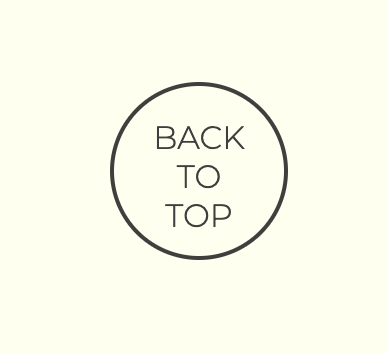
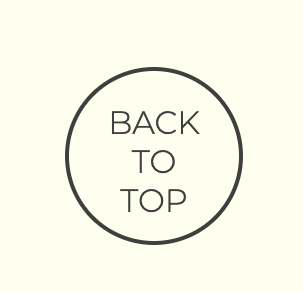
correct markdown for top button image and rescale

Changed region(s): [[0.2079, 0.2158, 0.802, 0.863], [0.6832, 0.7089, 0.7426, 0.7705]]

diff --git a/README.md b/README.md
@@ -93,8 +93,8 @@ A sign up form is at the bottom for users to input their name and email address 
 ### Back to top
 A responsive button that will bring the user back to the top of the site instead of them scrolling up. This is at the bottom of the site at it is currently not long enough to warrent a sticky button. When the site grows this will need to be implemented.
 
-[top button](/assets/images/top-button-screenshot.png)
-[top button hover](/assets/images/hover-top-button-screenshot.png)
+![top button](/assets/images/top-button-screenshot.png)
+![top button hover](/assets/images/hover-top-button-screenshot.png)
 
 ### Footer
 
